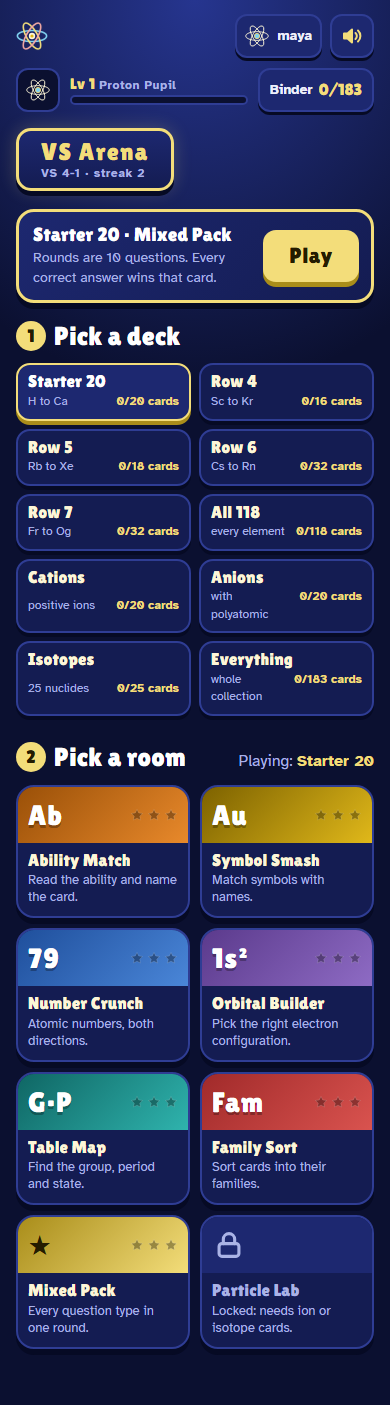
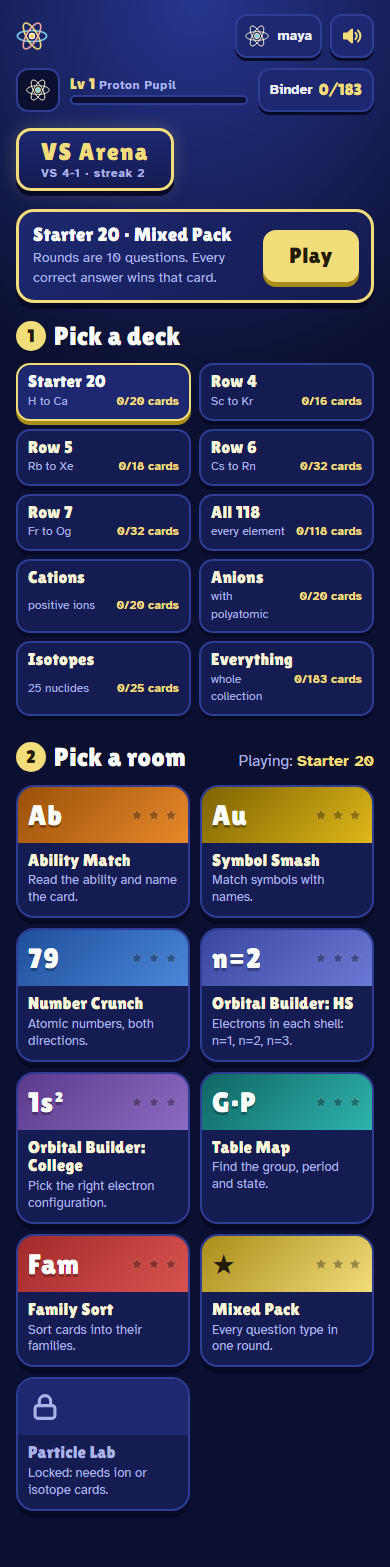
Orbital Builder: HS level (n=1, n=2 shells) alongside College (1s² notation)
The existing room keeps id 'config' (so earned stars and VS settings carry over)
and is renamed "Orbital Builder: College". New room 'shells', "Orbital Builder: HS",
asks for electrons per shell, e.g. "n=1: 2 · n=2: 8 · n=3: 5", from each card's
shells data; the tile clue hides the shell column. Wrong answers come from nearby
cards plus one common slip, never over a shell's 2n² capacity. Polyatomic ions
stay College-only. Mixed Pack includes both levels. Rules whitelist the new room id
for VS hosting.

diff --git a/index.html b/index.html
@@ -419,11 +419,12 @@ const ROOMS=[
   {id:'ability',name:'Ability Match',glyph:'Ab',desc:'Read the ability and name the card.',theme:'Alkaline Earth',types:['ability']},
   {id:'symbol',name:'Symbol Smash',glyph:'Au',desc:'Match symbols with names.',theme:'Halogen',types:['symbol']},
   {id:'number',name:'Number Crunch',glyph:'79',desc:'Atomic numbers, both directions.',theme:'Transition Metal',types:['number']},
-  {id:'config',name:'Orbital Builder',glyph:'1s²',desc:'Pick the right electron configuration.',theme:'Noble Gas',types:['config']},
+  {id:'shells',name:'Orbital Builder: HS',glyph:'n=2',desc:'Electrons in each shell: n=1, n=2, n=3.',theme:'Lanthanide',types:['shells']},
+  {id:'config',name:'Orbital Builder: College',glyph:'1s²',desc:'Pick the right electron configuration.',theme:'Noble Gas',types:['config']},
   {id:'table',name:'Table Map',glyph:'G·P',desc:'Find the group, period and state.',theme:'Metalloid',types:['table']},
   {id:'type',name:'Family Sort',glyph:'Fam',desc:'Sort cards into their families.',theme:'Alkali Metal',types:['type']},
   {id:'lab',name:'Particle Lab',glyph:'p n e',desc:'Count neutrons, electrons and atoms.',theme:'Nonmetal',types:['lab']},
-  {id:'mixed',name:'Mixed Pack',glyph:'★',desc:'Every question type in one round.',theme:'Blank',types:['ability','symbol','number','config','table','type','lab']}
+  {id:'mixed',name:'Mixed Pack',glyph:'★',desc:'Every question type in one round.',theme:'Blank',types:['ability','symbol','number','shells','config','table','type','lab']}
 ];
 /* Why a room can be empty in a deck, and decks that fill it (shown when a locked room is tapped). */
 const ROOM_NEEDS={number:{needs:'element cards',decks:['s20','e118']},table:{needs:'element cards',decks:['s20','e118']},lab:{needs:'ion or isotope cards',decks:['cat','an','iso']}};
@@ -676,6 +677,25 @@ const GEN={
     return{prompt:pr,clue:tileScaled(it,{neutral:true}),opts,mono:true,
       exp:'<p><b>'+esc(it.name)+'</b>: <span style="font-family:var(--mono)">'+esc(it.config)+'</span>.'+tip+'</p>'};
   },
+  /* HS level of Orbital Builder: electrons per shell in n=1, n=2 ... notation (the College level is config above). */
+  shells(it){
+    const sh=shellsOf(it);if(!sh)return null;
+    const str=a=>a.map((n,i)=>'n='+(i+1)+': '+n).join(' · ');
+    const ok=str(sh);
+    // Typical slips: one electron too few in the last shell (spilled into a new one), or one moved between the last two.
+    const slips=[];
+    if(sh[sh.length-1]>1)slips.push(sh.slice(0,-1).concat([sh[sh.length-1]-1,1]));
+    if(sh.length>1&&sh[sh.length-2]>1)slips.push(sh.slice(0,-2).concat([sh[sh.length-2]-1,sh[sh.length-1]+1]));
+    const total=sh.reduce((a,b)=>a+b,0);
+    const near=dpool(it).concat(ALL.filter(x=>x.cat==='el'&&x.zn<=36)).map(shellsOf).filter(Boolean)
+      .map(a=>[Math.abs(a.reduce((x,y)=>x+y,0)-total)+rand()*4,str(a)]).sort((a,b)=>a[0]-b[0]).map(p=>p[1]);
+    const fits=a=>a.every((n,i)=>n<=2*(i+1)*(i+1));   // a shell n holds at most 2n² electrons: never offer an impossible one
+    const opts=mkOpts(ok,shuffle(slips.filter(fits)).slice(0,1).map(str).concat(near));if(!opts)return null;
+    const who=it.cat==='el'?esc(it.name):it.cat==='iso'?'a neutral '+esc(it.name)+' atom':'the '+esc(it.name);
+    const tip=it.cat==='cat'?' A cation lost electrons from its outer shell.':it.cat==='an'?' An anion gained electrons, so its outer shell fills up.':'';
+    return{prompt:'How are the electrons of '+who+' arranged in shells?',clue:tileScaled(it,{neutral:true,hide:{shells:true}}),opts,mono:true,
+      exp:'<p><b>'+esc(it.name)+'</b> has '+total+' electron'+(total===1?'':'s')+': <span style="font-family:var(--mono)">'+esc(ok)+'</span>.'+tip+'</p>'};
+  },
   table(it){
     const kinds=['group','period'];if(['Solid','Liquid','Gas'].includes(it.s3v))kinds.push('state');
     const k=kinds[rnd(kinds.length)];
@@ -739,10 +759,13 @@ const GEN={
       exp:'<p>'+why+'</p>'};
   }
 };
+/* Electrons per shell as numbers, or null (polyatomic ions have no shells; H+ has no electrons). */
+const shellsOf=it=>{const a=String(it.shells||'').split(',').map(s=>parseInt(s,10));return a.length&&a.every(n=>n>=0)&&a.some(n=>n>0)?a:null};
 function supports(it,t){
   switch(t){
     case 'number':case 'table':return it.cat==='el';
     case 'config':return !!it.config;
+    case 'shells':return !!shellsOf(it);
     case 'lab':return it.cat!=='el';
     default:return true;
   }

diff --git a/tests/specs/orbital.spec.js b/tests/specs/orbital.spec.js
@@ -1,0 +1,51 @@
+// Orbital Builder has two levels: HS (room 'shells', electrons per shell as n=1, n=2 ...) and College
+// (room 'config', 1s² 2s² ... notation, the original room id so earned stars carry over).
+import { test, expect, PHONE } from '../helpers/fixtures.js';
+
+test('HS Orbital Builder: n= notation, right answer from the card, shells hidden on the clue, no polyatomic ions', async ({ arena }) => {
+  const dev = await arena.device({ firebase: 'blocked' });
+  await dev.goto('/');
+  const r = await dev.page.evaluate(() => {
+    const room = Arcade.roomOf('shells');
+    // every card that supports the room gets a valid question (seeded, many seeds)
+    const bad = [], seen = new Set();
+    for (const deck of ['s20', 'e118', 'cat', 'an', 'iso', 'all']) {
+      for (let s = 1; s <= 40; s++) {
+        for (const q of Arcade.buildRound(deck, 'shells', s * 7919)) {
+          const it = Arcade.BY[q.cardId], right = q.options[q.correct];
+          const want = it.shells.split(',').map((n, i) => 'n=' + (i + 1) + ': ' + n.trim()).join(' · ');
+          seen.add(it.cat);
+          if (right !== want) bad.push(it.name + ': ' + right + ' != ' + want);
+          if (new Set(q.options).size !== q.options.length || q.options.length < 2) bad.push(it.name + ': options ' + q.options.join(' | '));
+          if (q.options.some(o => !/^n=1: \d+( · n=\d: \d+)*$/.test(o))) bad.push(it.name + ': bad format ' + q.options.join(' | '));
+          if (it.cat === 'poly') bad.push('polyatomic in HS room: ' + it.name);
+        }
+      }
+    }
+    return { bad: bad.slice(0, 10), cats: [...seen].sort(), room: { name: room.name, types: room.types },
+      college: Arcade.roomOf('config').name, mixed: Arcade.roomOf('mixed').types, pool: Arcade.roomPool(room, 'all').some(x => x.cat === 'poly') };
+  });
+  expect(r.bad).toEqual([]);
+  expect(r.cats).toEqual(['an', 'cat', 'el', 'iso']);
+  expect(r.room).toEqual({ name: 'Orbital Builder: HS', types: ['shells'] });
+  expect(r.college).toBe('Orbital Builder: College');
+  expect(r.mixed).toContain('shells'); expect(r.mixed).toContain('config');
+  expect(r.pool).toBe(false);
+});
+
+test('HS room on screen: options read n=1 ..., the tile does not give the shells away, explanation names the count', async ({ arena }) => {
+  const dev = await arena.device({ width: PHONE, firebase: 'blocked' }), p = dev.page;
+  await dev.goto('/');
+  await expect(p.locator('[data-act="room"][data-id="shells"]')).toContainText('Orbital Builder: HS');
+  await expect(p.locator('[data-act="room"][data-id="config"]')).toContainText('Orbital Builder: College');
+  await p.locator('[data-act="room"][data-id="shells"]').click();
+  const it = await p.evaluate(() => { const q = Arcade.V.qs[0]; return { shells: q.item.shells, ok: q.opts.findIndex(o => o.ok), z: q.item.z }; });
+  await expect(p.locator('.opt').first()).toContainText('n=1:');
+  // the tile's shell column is empty (hidden), while the atomic number still shows
+  const shellCol = await p.locator('.clue .tile div[style*="flex-direction:column"]').first().innerText();
+  expect(shellCol.trim()).toBe('');
+  await p.locator(`[data-act="answer"][data-i="${it.ok}"]`).click();
+  const n = it.shells.split(',').reduce((a, b) => a + +b, 0);
+  await expect(p.locator('.fb')).toContainText(`${n} electron`);
+  expect(dev.errors.filter(e => !/Failed to load resource|ERR_FAILED/.test(e))).toEqual([]);
+});

diff --git a/tests/specs/ux.spec.js b/tests/specs/ux.spec.js
@@ -174,7 +174,7 @@ test('reduced motion: new UI (notice, sticky bars, picker, room stagger) does no
   const d2 = await arena.device({ width: PHONE }); await d2.goto('/');
   // (cloud-ready re-renders home right away, so measure the stagger rule itself on the current grid)
   const delays = await d2.page.evaluate(() => { document.querySelector('main').classList.add('enter'); document.querySelector('.rooms').classList.add('stag'); return [...document.querySelectorAll('.rooms.stag .room')].map(e => parseFloat(getComputedStyle(e).animationDelay) * 1000); });
-  expect(delays.length).toBe(8);
+  expect(delays.length).toBe(await d2.page.evaluate(() => Arcade.ROOMS.length));
   expect(Math.max(...delays)).toBeLessThanOrEqual(200);
   await d2.page.locator('[data-act="binder"]').click(); await d2.page.locator('[data-act="home"]').last().click();
   expect(await d2.page.evaluate(() => Arcade.V.screen)).toBe('home');

diff --git a/tests/fake/rules.js b/tests/fake/rules.js
@@ -16,7 +16,7 @@
 
 export const CODE_ALPHABET = 'ABCDEFGHJKMNPQRSTUVWXYZ23456789';
 export const DECK_IDS = ['s20', 'r4', 'r5', 'r6', 'r7', 'e118', 'cat', 'an', 'iso', 'all'];
-export const ROOM_IDS = ['ability', 'symbol', 'number', 'config', 'table', 'type', 'lab', 'mixed'];
+export const ROOM_IDS = ['ability', 'symbol', 'number', 'shells', 'config', 'table', 'type', 'lab', 'mixed'];
 export const REACTIONS = ['nice', 'hmm', 'fire', 'gg', 'oops'];
 // Profile icon ids (index.html ICONS). Optional on /players and on seats; anything else is rejected.
 export const ICON_IDS = ['atom', 'bolt', 'beaker', 'crystal', 'flame', 'droplet', 'magnet', 'moon', 'star', 'comet', 'rocket', 'flask', 'crown', 'shield', 'spark', 'wave'];

diff --git a/tests/specs/rounds.spec.js b/tests/specs/rounds.spec.js
@@ -2,7 +2,7 @@
 import { test, expect } from '../helpers/fixtures.js';
 
 const DECKS = ['s20', 'r4', 'e118', 'cat', 'iso', 'all'];
-const ROOMS = ['mixed', 'ability', 'symbol', 'number', 'config', 'lab'];
+const ROOMS = ['mixed', 'ability', 'symbol', 'number', 'shells', 'config', 'lab'];
 const SEEDS = [1, 42, 123456789, 0xdeadbeef, 4294967295];
 
 test.describe('buildRound / makeQ', () => {
